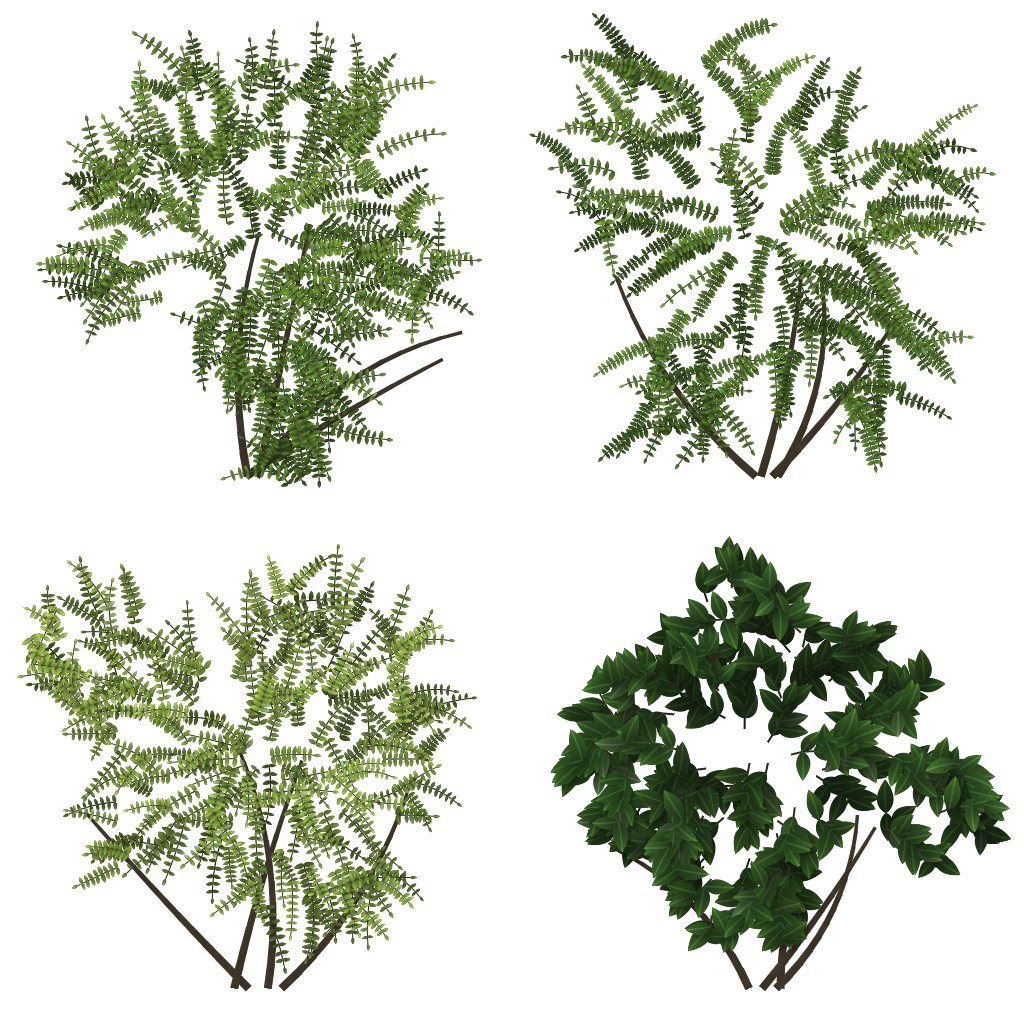
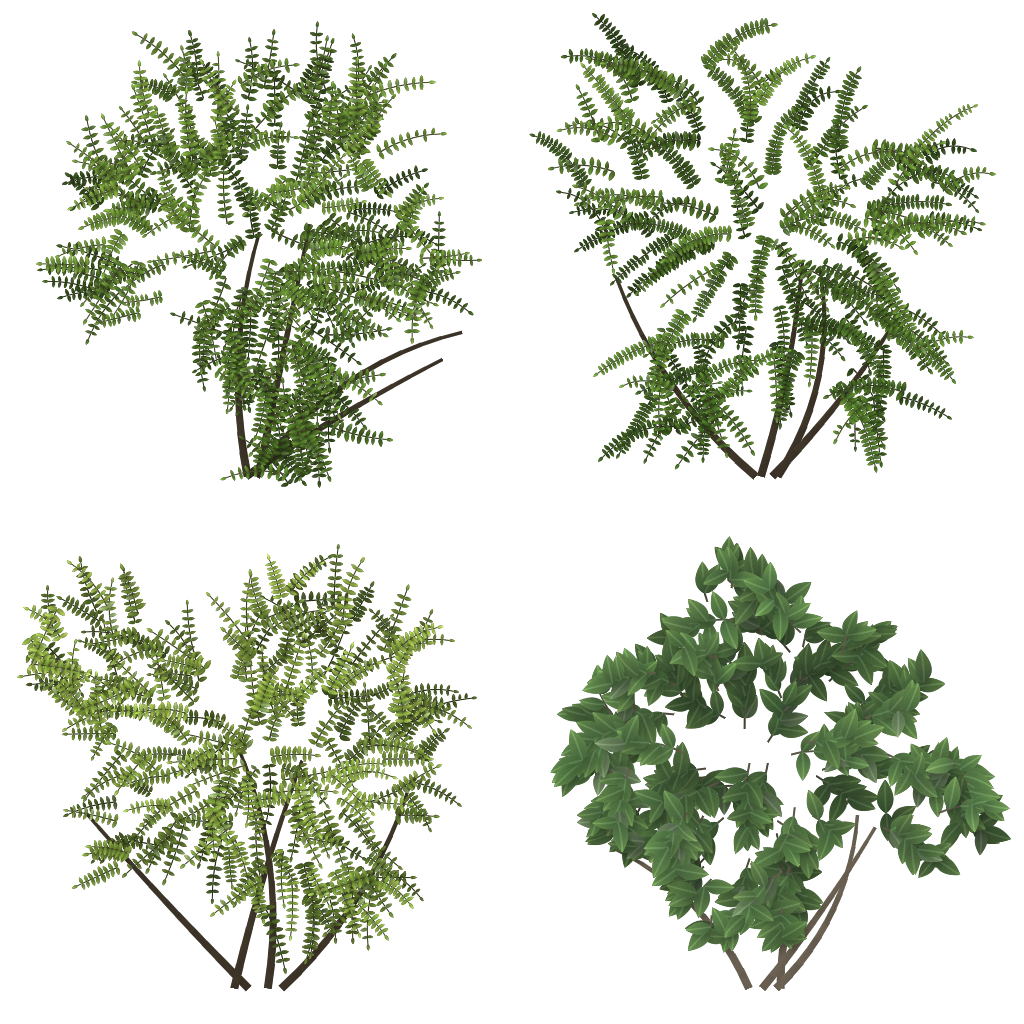
Fase 3: arregla manchas negras del follaje, iglesia mira al parque, fuente, tarima y leon
Claude-Session: https://claude.ai/code/session_01JwHU1kqdHP7RXz6e1EaPmo

Changed region(s): [[0.5312, 0.5312, 1.0, 0.9688]]

diff --git a/godot3d/tools/texgen/foliage_lift.py b/godot3d/tools/texgen/foliage_lift.py
@@ -1,0 +1,27 @@
+#!/usr/bin/env python3
+"""Levanta la luminancia de la celda 3 (hojas anchas) del atlas de copas.
+La celda salía casi negra (lum media 43/255, 16 % de texels < 30) y, multiplicada por la oclusión del
+color de vértice, se veía como bloques negros en el teléfono. Idempotente: no vuelve a levantar si ya está.
+Ejecutar DESPUÉS de foliage.py:  python3 tools/texgen/foliage_lift.py
+"""
+import numpy as np
+from PIL import Image
+
+PATH = "art/tex/foliage/canopy_atlas_albedo.png"
+GAMMA = 0.62          # <1 aclara los oscuros sin quemar los claros
+TARGET_MIN_MEAN = 70  # si la celda ya supera esto, no se toca
+
+im = np.array(Image.open(PATH).convert("RGBA"))
+cell = im[512:1024, 512:1024].astype(np.float32)
+op = cell[..., 3] >= 128
+mean = cell[..., :3].mean(2)[op].mean()
+if mean >= TARGET_MIN_MEAN:
+    print("celda 3 ya levantada (lum media %.0f), nada que hacer" % mean)
+else:
+    rgb = (cell[..., :3] / 255.0) ** GAMMA * 255.0
+    # los texels transparentes también se levantan para que los mipmaps no los mezclen más oscuros
+    cell[..., :3] = rgb
+    im[512:1024, 512:1024] = np.clip(cell, 0, 255).astype(np.uint8)
+    Image.fromarray(im, "RGBA").save(PATH, optimize=True)
+    new = cell[..., :3].mean(2)[op].mean()
+    print("celda 3: lum media %.0f -> %.0f" % (mean, new))

diff --git a/godot3d/world/README_mapa.md b/godot3d/world/README_mapa.md
@@ -18,7 +18,7 @@
 |---|---|
 | Parque de Boston | manzana x ∈ [-34, 34], z ∈ [-34, 34] (Cra 38–39, Cl 54–55). Plaza central 24×24 m, caminos en cruz, 4 jardineras en L elevadas 0.35 m, ~36 árboles (incl. guayacanes amarillos/rosados), 16 bancas, 12 faroles (6 con OmniLight cálida sin sombra), 5 carritos de comida, placas de nomenclatura en las 4 esquinas. |
 | Monumento a Córdova | (0,0,0), mira al sur (+Z). `world/props/monument.gd`: figura de pie en bronce oscuro (2.5 m, casaca con faldones, sable, brazo derecho alzado) sobre pedestal de mármol blanco hasta y = 4.28 (gradas, dado con placa "JOSÉ MARÍA CÓRDOVA", cuerpo esbelto), seto redondo (r 2.45–3.75), bordillo de granito y reja verde (r 4.15). Colisión: cilindro r 4.2 + caja del pedestal. |
-| Iglesia del Sufragio | Cuadra entre Cra 39 y Cra 40, sobre la Cl 55: centro x = -72, fachada en z = -30.5 mirando al **norte** (Cl 55). Nave 18×42 m, dos torres de ~36 m con campanario y remate piramidal de piedra con pináculos, pórtico con arquivoltas sobre columnillas, rosetón con tracería, ajimeces, arquillos lombardos, reloj en la torre oriental, ábside con contrafuertes, escalinata de granito de 6 peldaños (mallas en `world/props/church.gd`; colisiones en `_build_church`). Plazuela con árboles en la esquina Cra 39 (x -59…-46). |
+| Iglesia del Sufragio | Cuadra entre Cra 39 y Cra 40, sobre la Cl 55: al oeste de la Cra 39, centro (x = -52, z = -20), fachada sobre la Cra 39 mirando al **este**, hacia el parque; nave larga hacia el oeste. Nave 18×42 m, dos torres de ~36 m con campanario y remate piramidal de piedra con pináculos, pórtico con arquivoltas sobre columnillas, rosetón con tracería, ajimeces, arquillos lombardos, reloj en la torre oriental, ábside con contrafuertes, escalinata de granito de 6 peldaños (mallas en `world/props/church.gd`; colisiones en `_build_church`). Sin plazuela propia: la escalinata da a la acera de la Cra 39. |
 | Teatro (representa al Pablo Tobón Uribe) | Al sur de La Playa, junto a la Cra 40: x ∈ [-112, -60], z ∈ [222, 258], marquesina con aviso "TEATRO". |
 | Obras con conos | Cl 55 frente a la cuadra de la iglesia (x -100…-89) y Cra 38 (z -70…-77). |
 
@@ -42,7 +42,7 @@
 ## Real vs. aproximado
 **Basado en datos reales:** dirección del parque (Cra 38 #54-97) y su manzana entre Cl 54/55 y Cra 38/39; estatua de José María Córdova en el parque; Iglesia de Nuestra Señora del Sufragio, neorrománica, Calle 55 #39-61 (al lado del parque); nombres Caracas (Cl 54), Perú (Cl 55), Echeverri (Cl 58), La Playa (Cl 52, bulevar arborizado), Girardot (Cra 43, vía ancha); orientación de la nomenclatura de Medellín; el barrio sube hacia el oriente; tipologías (casas de 2 pisos con balcón y teja, edificios de ladrillo, locales con avisos, rejas, cables aéreos, guayacanes).
 
-**Aproximado / inventado:** cuadrícula perfecta de 80 m (las cuadras reales son irregulares y no todas las carreras son continuas); pendiente uniforme 4 % solo en X; anchos de vía; disposición interna del parque, número de árboles; el monumento es una figura de pie sobre pedestal blanco según las fotos de referencia, pero la pose y la escultura son genéricas (no es un retrato); lado exacto y orientación de la iglesia (se asumió frente a la Cl 55 hacia el norte) y la plazuela de la esquina; forma y posición del teatro; los edificios son procedurales; todos los nombres de locales son inventados (ninguna marca real); ubicación de semáforos, postes, hidrantes y canecas.
+**Aproximado / inventado:** cuadrícula perfecta de 80 m (las cuadras reales son irregulares y no todas las carreras son continuas); pendiente uniforme 4 % solo en X; anchos de vía; disposición interna del parque, número de árboles; el monumento es una figura de pie sobre pedestal blanco según las fotos de referencia, pero la pose y la escultura son genéricas (no es un retrato); posición exacta de la iglesia (su fachada sí mira al parque, como en las fotos); forma y posición del teatro; los edificios son procedurales; todos los nombres de locales son inventados (ninguna marca real); ubicación de semáforos, postes, hidrantes y canecas.
 
 ## Pruebas
 - `tests/world_test.gd` (headless): spawns, ~22 500 raycasts sobre todas las calzadas (sin huecos, altura exacta), rejilla de 5 m en todo el mapa, caja tipo auto bajando la Cl 55 y por la Cra 38 (sin frenazos en cruces), esfera que rueda sola cuesta abajo, conos en capa 4.

diff --git a/godot3d/ESTADO.md b/godot3d/ESTADO.md
@@ -19,20 +19,24 @@ Plan gráfico anterior (fases 1-5): `PLAN_GRAFICOS.md`. El plan vigente está en
 - Rendimiento medido en el editor del teléfono: ~51 FPS en el parque, ~78 FPS en la calle.
 - Sin APK todavía (a propósito): se juega desde el editor de Godot en el teléfono.
 
-## Última sesión
-- 2.2 confirmado en el teléfono (capturas de día): 65-83 FPS en calle y parque. Las luces y sombras de contacto no
-  costaron FPS. La noche aún no se vio en el teléfono, solo en capturas por software (luminancia 13→39).
-  Detalle: luces del parque con `distance_fade`, tope 16; `look/contact_shadows.gd` (1 MultiMesh) dibuja la base de cada
-  cilindro de colisión registrado en `boston_district.gd`.
-- 2.1b (en prueba): las manchas negras del follaje SIGUEN en el teléfono (Mobile/Vulkan) y NO se reproducen en
-  el renderer por software (opengl3). Meshes revisados: sin NaN (`tests/foliage_mesh_check.gd`). `LEAF_SHADER` en
-  `world/props/trees.gd` reescrito a la defensiva: normal desde un varying (sin voltear cara trasera), sin mapa de
-  normales, `shadows_disabled`, pisos de AO y color de vértice, descarta texels casi negros.
-  Si SIGUEN: poner `LEAF_DEBUG = 3` (verde = frente, rojo = reverso), mirar una copa y mandar captura; luego 1, 2 y 4.
-  Cada modo descarta una causa (reverso, color de vértice, AO, normal). Volver a 0 al terminar.
+## Última sesión (10 nov 2026) — Fase 3: pulir parque y zona
+- Manchas negras del follaje: causa hallada = celda 3 del atlas (hoja ancha) casi negra × AO de vértice. Arreglo:
+  `tools/texgen/foliage_lift.py` (gamma 0.62 en esa celda; correr después de foliage.py, es idempotente) + piso de albedo
+  en `LEAF_SHADER` (`world/props/trees.gd`). Verificado con el renderer Mobile real por software (lavapipe, ver abajo).
+  NO se pudo probar en Adreno: falta confirmar en el teléfono. Si siguen: `LEAF_DEBUG = 3/1/2/4` y mandar captura.
+- Iglesia: ahora al oeste de la Cra 39 (centro x=-52, z=-20), fachada mirando al este, al parque (`_build_church`,
+  `add_col_cyl_xf`). Color del pañete algo más rosado.
+- Nuevo `world/props/park_plaza.gd`: fuente de piedra con reja verde y adoquín hexagonal, tarima redonda de dos
+  escalones (con colisión inclinada para la pendiente) y león al pie del pedestal de Córdova.
+- Técnica de captura barata: `tests/look_shots.gd` (varias cámaras) con
+  `xvfb-run godot --rendering-method mobile --rendering-driver vulkan` + `mesa-vulkan-drivers` (lavapipe).
+- Pendiente de esta zona: paraderos de bus en Cra 39/38, guadua, sombrillas de vendedores, grano del asfalto,
+  auto blanco sin detalle, recuadros cian en avisos, noche sin ver en el teléfono. Siguiente: 2.3 edificios del fondo.
+
+## Sesión anterior
+- 2.2 confirmado en el teléfono: 65-83 FPS en calle y parque; luces del parque con `distance_fade`, tope 16;
+  `look/contact_shadows.gd` dibuja la base de cada cilindro de colisión registrado.
 - Semáforos: no necesitan arreglo (en el video se veían por detrás).
-- Visto en las capturas y pendiente: asfalto con grano muy ruidoso junto al sardinel (foto 2), auto blanco sin detalle
-  (fase 4/5), recuadros cian en avisos pequeños (¿intencional?).
 
 ## Pendiente conocido
 - Edificios del fondo son bloques (la neblina los disimula).
